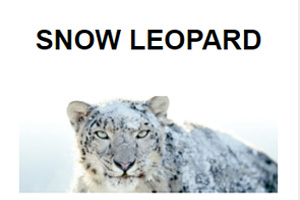
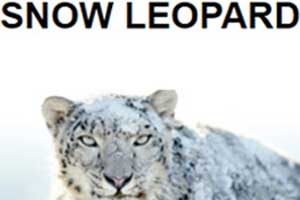
1.1

diff --git a/css/styles.css b/css/styles.css
@@ -18,7 +18,6 @@ header {
 	float: right;
 	height: 100%;
 	vertical-align: middle;
-
 }
 
 #header-name h1, #header-subtitle h3 {
@@ -43,7 +42,7 @@ header {
 	border-top: 5px solid #7d97ad;
 }
 
-#container {
+main {
 	display: flex;
 	flex-wrap: wrap;
 	max-width: 1000px;
@@ -52,16 +51,24 @@ header {
 
 .work {
 	float: left;
-	background-color: blue;
-	width: calc((100% - 20px)/3);
-	margin-right: 10px;
+	width: calc((100% - 40px)/3);
+	margin-right: 20px;
+	margin-bottom: 10px;
+	text-align: center;
 }
-.work:last-of-type {
+article.work:nth-of-type(3n) {
 	margin-right: 0px;
 }
+.work a {
+	text-decoration: none;
+	font-size: 12px;	
+	color: #2d3c49;
 
-.work h3 {
+}
+.work h3{
+	text-transform: uppercase;
 	text-align: center;
+	margin-bottom: 10px;
 }
 
 .work-img {
@@ -69,8 +76,8 @@ header {
 }
 
 #featured-img img{
-	width: 100%;
-	flex-wrap: wrap;
+	width: 100vw;
+	max-width: 100%;
 	margin-bottom: 20px;
 }
 
@@ -88,17 +95,44 @@ header {
 }
 
 @media screen and (max-width: 768px) {
-	#container {
+	main {
 		margin-left: 20px;
 		margin-right: 20px;
 	}
 	.work {
-		width: calc((100% - 20px)/2);
+		width: calc((100% - 40px)/2);
 	}
+	article.work:nth-of-type(3n) {
+	margin-right: 20px !important;
+	}
+	article.work:nth-of-type(2n) {
+	margin-right: 0px;
+}
 }
 
 @media screen and (max-width: 450px) {
+
+	#header-logo {
+		height: 30px;
+		vertical-align: middle;
+	}
+	.work:nth-of-type(3n) {
+		margin-right: 0px;
+	}
 	.work {
 		width: 100%;
 	}
+	h1 {
+		font-size: 1.2em;
+	}
+	#header-name h1 {
+		line-height: 30px;
+	}
+	header {
+		height: 30px;
+	}
+	#header-subtitle {
+		display: none;
+	}
+
 }

diff --git a/index.html b/index.html
@@ -18,9 +18,9 @@
 			<hr>
 		</div>
 	</header>
-	<section id="container">
+	<main>
 		<section id="featured-img">
-			<img src="img/featured-img-1000px.jpg" alt="I like coding :)">
+			<img src="img/featured-img-large.jpg" srcset="img/featured-img-large.jpg 1000w, img/featured-img-medium.jpg 768w, img/featured-img-small.jpg 450w" alt="I like coding :)">
 		</section>
 		<section id="featured-work">
 			<div id="featured-work-title">
@@ -29,16 +29,19 @@
 			<article class="work">
 				<img class="work-img" src="img/animal-trading-cards.jpg" alt="Animal Trading Cards Project">
 				<h3>Animal Trading Cards</h3>
+				<a href="https://github.com/JoelCantero/Animal-Trading-Cards" alt="Animal Trading Cards GitHub Project">https://github.com/JoelCantero/Animal-Trading-Cards</a>
 			</article>
 			<article class="work">
 				<img class="work-img" src="img/the-brighton-times.jpg" alt="The Brighton Times Project">
 				<h3>The Brighton Times</h3>
+				<a href="https://github.com/JoelCantero/The-Brighton-Times" alt="The Brighton Times GitHub Project">https://github.com/JoelCantero/The-Brighton-Times</a>
 			</article>
-			<article class="work last">
+			<article class="work">
 				<img class="work-img" src="img/resum-site.jpg" alt="Resum Site Project">
 				<h3>Resume Site</h3>
+				<a href="https://github.com/JoelCantero/Resume-site" alt="Resum Site GitHub Project">https://github.com/JoelCantero/Resume-site</a>
 			</article>
 		</section>
-	</section>
+	</main>
 </body>
 </html>
